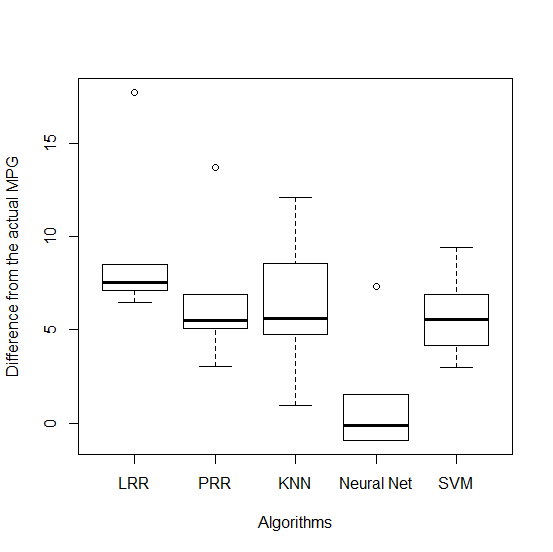
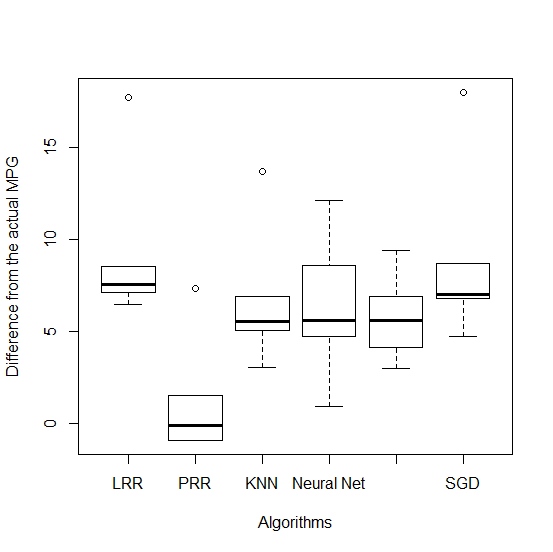
changin document based on SGD

diff --git a/doc/src/db1.tex b/doc/src/db1.tex
@@ -9,31 +9,31 @@ In order to impute missing values, we applied three different techniques contain
 
 \subsection{Regression}
 \subsubsection{Linear Regression}
-The results of different Linear Regression algorithms with different imputation techniques are shown in Table \ref{table:db1-linearregression} in Appendix A. Ridge Regression was tested by different values for alpha (0.1, 0.5, 1 and 10) and 0.1 seems to be the best value. The final results were very similar. As it shown all the values are rather the same and very biased. By reducing the number of instances in Train Data the final bias reduced significantly. In order to improve the results, we used Multinomial Regressions in the next step.
+The results of different Linear Regression algorithms with different imputation techniques are shown in Table\ref{table:db1-linearregression} in Appendix A. Ridge Regression was tested by different values for alpha (0.1, 0.5, 1 and 10) and 0.1 seems to be the best value. The final results were very similar. As it shown all the values are rather the same and very biased. By reducing the number of instances in Train Data the final bias reduced significantly. In order to improve the results, we used Multinomial Regressions in the next step.
 
 \subsubsection{Polynomial Ridge Regression}
-By adding more attributes to the linear algorithm, we could apply the data on Polynomial Ridge Regression. Regarding to very short execution time, we tryed many different powers and achieved novel results. As it shown in \ref{table:db1-polynomialregression}, till power five there is no big difference between linear and polynomial model. In contrast to the powers around ten, power ten creates a surprisingly good model. It happens again in some other numbers like twenty two such that we achieved to a very good results in thirty two. One interesting point is that when the results is very biased (like power fifteen), the more alpha is, the more rational results are.
+By adding more attributes to the linear algorithm, we could apply the data on Polynomial Ridge Regression. Regarding to very short execution time, we tryed many different powers and achieved novel results. As it shown in Table\ref{table:db1-polynomialregression}, till power five there is no big difference between linear and polynomial model. In contrast to the powers around ten, power ten creates a surprisingly good model. It happens again in some other numbers like twenty two such that we achieved to a very good results in thirty two. One interesting point is that when the results is very biased (like power fifteen), the more alpha is, the more rational results are.
 
 \subsection{Nearest Neighbor}
-In the first three runs, one, five and ten were selected as the number of neighbors. Since by increasing the neighbor numbers, the final result seems to be better, we continue increasing the value and found eighteen as a reasonable value. The results for different imputation techniques are depicted in Table \ref{table:db1-nearestneighbor}. In this case, mean value for imputation seems better than other techniques.
+In the first three runs, one, five and ten were selected as the number of neighbors. Since by increasing the neighbor numbers, the final result seems to be better, we continue increasing the value and found eighteen as a reasonable value. The results for different imputation techniques are depicted in Table\ref{table:db1-nearestneighbor}. In this case, mean value for imputation seems better than other techniques.
 
 \subsection{Support Vector Machine}
-We applied SVM algorithm with default parameters presented by Sci-kit. The default mode of the algorithm uses epsilon equal to 0.1, gamma equal to zero and RBF as kernel. The results for three different imputation techniques is shown in Table \ref{table:db1-SVM}. Changing imputation technique doesn't seem to make any considerable affect on results.
+We applied SVM algorithm with default parameters presented by Sci-kit. The default mode of the algorithm uses epsilon equal to 0.1, gamma equal to zero and RBF as kernel. The results for three different imputation techniques is shown in Table\ref{table:db1-SVM}. Changing imputation technique doesn't seem to make any considerable affect on results.
 
 \subsection{Statistic Gradient Descent}
-As SGD algorithm uses a portion of data for regression, we run every parameter four times and calculate the mean value. There is a rather considerable difference between the different results for each parameter. The reason is probably because dataset has small size. The results for three different imputation techniques is shown in Table \ref{table:db1-SGD}. In the final result, Log seems to be the best Loss Function and Mean the best imputation technique while The results are changing very radically and are not reliable.
+We applied Huber and SquaredLoss as loss functions on SGD algorithm. Four epsilon values from the range of $100$ to $2000$ were selected for Huber loss function. The results applied for three different imputation techniques is shown in Table\ref{table:db1-SGD}. In the final result, SquaredLoss seems to be the best Loss Function and Mean the best imputation technique.
 
 \subsection{Neural Network}
-As the last part, we also apply neural network model on the dataset. We picked Mean value as imputation technique and as it is shown in Table \ref{table:db1-NeuralNetwork}, different hidden layers and node counts were applied. Based on achieved results, regardless to number of layers, having ten to twenty nodes usually leads to the best results. Using one hidden layer seems to be the best model. In current data one layer and twenty nodes seems to be the best model. It should also be considered that different runs return different results while not very diverse.
+As the last part, we also apply neural network model on the dataset. We picked Mean value as imputation technique and as it is shown in Table\ref{table:db1-NeuralNetwork}, different hidden layers and node counts were applied. Based on achieved results, regardless to number of layers, having ten to twenty nodes usually leads to the best results. Using one hidden layer seems to be the best model. In current data one layer and twenty nodes seems to be the best model. It should also be considered that different runs return different results while not very diverse.
 
 \subsection{Comparison}
-Table \ref{table:db1-results} shows the comparison between best results of each algorithm.
+Table\ref{table:db1-results} shows the comparison between best results of each algorithm.
 
 Based on the results following conclusions can be obtained:
 \begin{itemize}
   \item Polynomial Ridge Regression has the best results and SVM creates the second best one.
   \item While good results in Polynomial Ridge Regression, standard deviation of bias between results and real values is rather high. Between all algorithms, SVM seems more stable.
-  \item Regarding to amount of data, SGD is a very inappropriate model.
+  \item Regarding to amount of data, SGD is an inappropriate model.
   \item Although all the algorithms are executing less than one second, Neural Network has the longest execution time.
   \item Mean is the best Imputation technique among the implemented ones.
 \end{itemize}

diff --git a/doc/src/appendixA.tex b/doc/src/appendixA.tex
@@ -13,7 +13,7 @@
 \hline
 \end{tabular}
 
-    \caption{Auto MPG dataset - Linear Regressions (Mean, Standard deviation, Execution time)}
+    \caption{Auto MPG - Linear Regressions (Mean, Standard deviation, Execution time)}
     \label{table:db1-linearregression}
 \end{center}
     \end{table}
@@ -38,7 +38,7 @@
 \hline
 \end{tabular}
 
-    \caption{Auto MPG dataset - Polynomial Ridge Regressions (Mean, Standard deviation, Execution time)}
+    \caption{Auto MPG - Polynomial Ridge Regressions (Mean, Standard deviation, Execution time)}
     \label{table:db1-polynomialregression}
 \end{center}
     \end{table}
@@ -55,7 +55,7 @@
 \hline Most Frequent & \minibox{6.85 \\ 3.78 \\ 00.039} & \minibox{6.97 \\ 3.67 \\ 00.033} & \minibox{6.87 \\ 3.51 \\ 00.036} & \minibox{6.72 \\ 3.42 \\ 00.033} & \minibox{6.63 \\ 3.36 \\ 00.033} & \minibox{6.62 \\ 3.39 \\ 00.033} \\
 \hline
 \end{tabular}
-    \caption{Auto MPG dataset - Nearest Neighbor (Mean, Standard deviation, Execution time)}
+    \caption{Auto MPG - Nearest Neighbor (Mean, Standard deviation, Execution time)}
     \label{table:db1-nearestneighbor}
 \end{center}
     \end{table}
@@ -72,7 +72,7 @@
 \hline Most Frequent & \minibox{5.765 \\ 2.044 \\ 00.155} \\
 \hline
 \end{tabular}
-    \caption{Auto MPG dataset - SVM (Mean, Standard deviation, Execution time)}
+    \caption{Auto MPG - SVM (Mean, Standard deviation, Execution time)}
     \label{table:db1-SVM}
 \end{center}
     \end{table}
@@ -80,16 +80,16 @@
 		\begin{table}[p]
 \begin{center}
 \begin{tabular}{|c|c|c|}
-\hline \backslashbox{Imputation}{Loss Function} & Hinge & Log \\
+\hline \backslashbox{Imputation}{Loss Function} & Huber epsilon=100 & SquaredLoss \\
 
-\hline Mean & \minibox{7.89 \\ 2.24 \\ 00.23} & \minibox{\textbf{7.26} \\ 3.034 \\ 00.29} \\
+\hline Mean & \minibox{8.690 \\ 4.280 \\ 00.003} & \minibox{\textbf{8.682} \\ 3.87 \\ 00.003} \\
 
-\hline Median & \minibox{7.49 \\ 2.63 \\ 00.243} & \minibox{7.63 \\ 2.19 \\ 00.299} \\
+\hline Median & \minibox{8.685 \\ 4.272 \\ 00.003} & \minibox{8.698 \\ 4.297 \\ 00.003} \\
 
-\hline Median & \minibox{7.53 \\ 2.69 \\ 00.273} & \minibox{7.33 \\ 2.14 \\ 00.31} \\
+\hline Most Frequent & \minibox{8.719 \\ 4.278 \\ 00.003} & \minibox{8.692 \\ 4.309 \\ 00.003} \\
 \hline
 \end{tabular}
-    \caption{Auto MPG dataset - SGD (Mean, Standard deviation, Execution time)}
+    \caption{Auto MPG - SGD (Mean, Standard deviation, Execution time)}
     \label{table:db1-SGD}
 \end{center}
     \end{table}

diff --git a/doc/src/introduction.tex b/doc/src/introduction.tex
@@ -2,27 +2,3 @@
 In this assignment, we applied many different machine learning techniques on three datasets provided by UCI Machine Learning Repositories \footnote{http://archive.ics.uci.edu/ml/datasets.html}. The datasets and their characteristics are shown in Table \ref{table:datasets}.
 
 In order to run ML algorithms, we create a ML platform using Python libraries. SciKit-Learn \footnote{http://scikit-learn.org/} and PyBrain  \footnote{http://pybrain.org/} are two main libraries used in the platform. SciKit-Learn provides a vast variety of techniques for preprocessing, data imputing and ML algorithms. In order to fill the lack of Neural Network algorithms for supervised learning in SciKit-Learn, we used PyBrain libraries.
-
-Eight different techniques were implemented in the platform as follows:
-\begin{itemize}
-  \item Linear Ridge Regression
-  \item Linear Ridge Regression Cross Validation
-  \item Linear Bayesian Ridge Regression
-  \item Stochastic Gradient Descent
-  \item Decision Tree
-  \item K-Nearest Neighbors Regression
-  \item Support Vector Machine
-  \item Neural Network  
-\end{itemize}
-
-\begin{center}
-	\begin{table}[h]
-    \begin{tabular}{ | p{2.5cm} | p{1cm} | p{1cm} | p{1cm} | p{7cm} |}
-    \hline
-    Name & Instances \# & Attributes \# & Missing Values & Reason for Choosing \\ \hline
-    YearPrediction MSD & 515345 & 90 & N/A & In contrast to AutoMPG, the dataset is very big and has many attributes.\\ \hline
-    \end{tabular}
-    \caption{List of datasets selected from UCI Machine Learning Repositories}
-    \label{table:datasets}
-    \end{table}
-\end{center}
